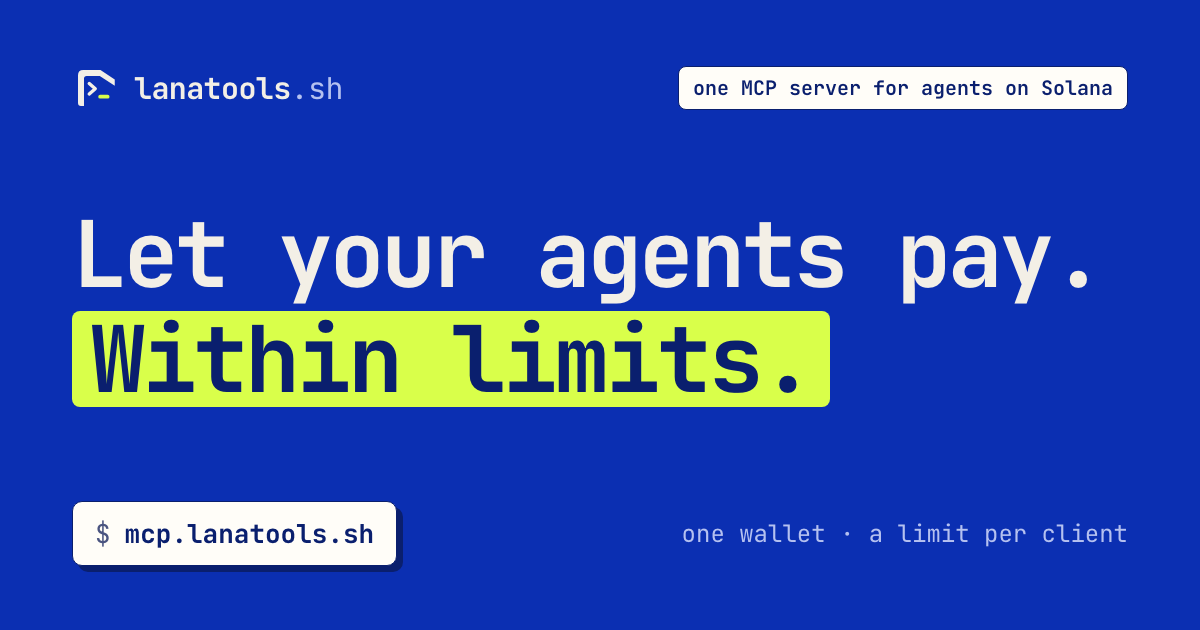
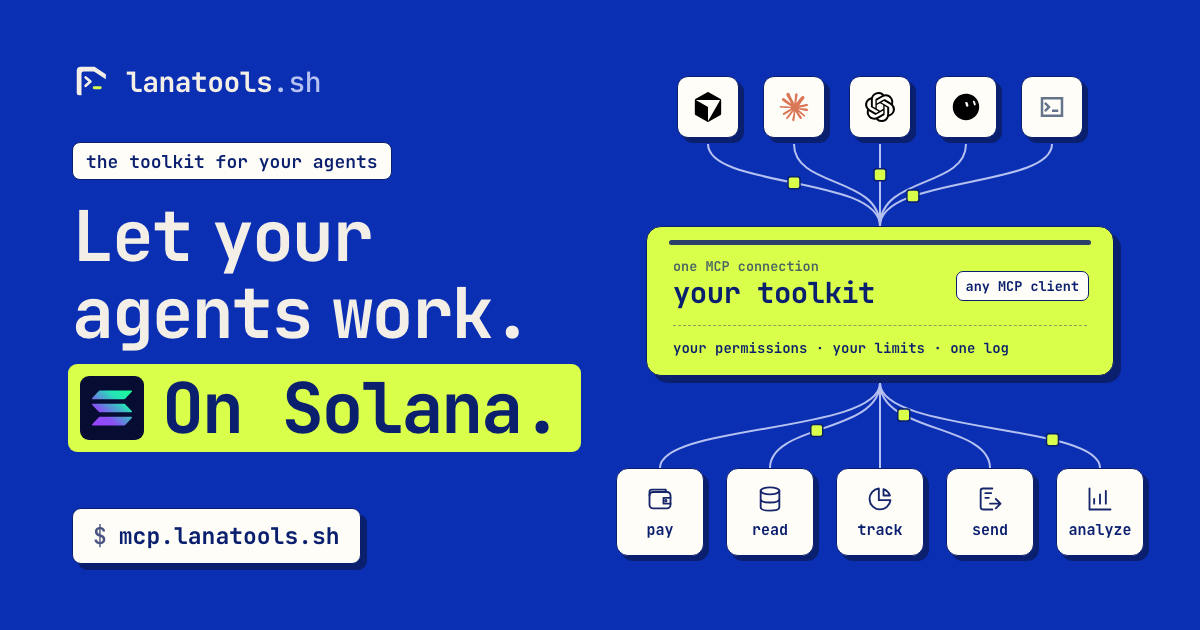
Match the page title, description, and preview image to the hero

diff --git a/apps/web/index.html b/apps/web/index.html
@@ -3,10 +3,10 @@
   <head>
     <meta charset="UTF-8" />
     <meta name="viewport" content="width=device-width, initial-scale=1.0" />
-    <title>LanaTools — Let your agents pay. Within limits.</title>
+    <title>LanaTools — Let your agents work. On Solana.</title>
     <meta
       name="description"
-      content="Give your agents one wallet you own. They pay for the APIs and data they need, each within the spending limit you set, and no keys sit in their configs."
+      content="One connection for your agents to access onchain data, pay for services, and execute transactions on Solana. You decide what each agent can do."
     />
     <meta name="theme-color" content="#0b2fb2" />
     <link rel="icon" type="image/svg+xml" href="/favicon.svg" />
@@ -17,33 +17,33 @@
     <meta property="og:url" content="https://lanatools.sh/" />
     <meta
       property="og:title"
-      content="LanaTools — Let your agents pay. Within limits."
+      content="LanaTools — Let your agents work. On Solana."
     />
     <meta
       property="og:description"
-      content="Give your agents one wallet you own. They pay for the APIs and data they need, each within the spending limit you set, and no keys sit in their configs."
+      content="One connection for your agents to access onchain data, pay for services, and execute transactions on Solana. You decide what each agent can do."
     />
     <meta property="og:image" content="https://lanatools.sh/og.png" />
     <meta property="og:image:width" content="1200" />
     <meta property="og:image:height" content="630" />
     <meta
       property="og:image:alt"
-      content="lanatools.sh — Let your agents pay. Within limits. mcp.lanatools.sh"
+      content="lanatools.sh — Let your agents work. On Solana. mcp.lanatools.sh"
     />
 
     <meta name="twitter:card" content="summary_large_image" />
     <meta
       name="twitter:title"
-      content="LanaTools — Let your agents pay. Within limits."
+      content="LanaTools — Let your agents work. On Solana."
     />
     <meta
       name="twitter:description"
-      content="Give your agents one wallet you own. They pay for the APIs and data they need, each within the spending limit you set, and no keys sit in their configs."
+      content="One connection for your agents to access onchain data, pay for services, and execute transactions on Solana. You decide what each agent can do."
     />
     <meta name="twitter:image" content="https://lanatools.sh/og.png" />
     <meta
       name="twitter:image:alt"
-      content="lanatools.sh — Let your agents pay. Within limits. mcp.lanatools.sh"
+      content="lanatools.sh — Let your agents work. On Solana. mcp.lanatools.sh"
     />
     <link rel="preconnect" href="https://fonts.googleapis.com" />
     <link rel="preconnect" href="https://fonts.gstatic.com" crossorigin />
@@ -54,9 +54,9 @@
   </head>
   <body>
     <!--
-      THESIS: one line. Every agent converges into a single URL, passes your wallet's gate, and fans out to providers. The page is a poster around that diagram; it refuses product screenshots and card grids.
+      THESIS: one line. Every agent converges into a single URL, passes your toolkit's checks, and fans out to the tools. The page is a poster around that diagram; it refuses product screenshots and card grids.
       OWN-WORLD: drenched Klein blue with paper counter-sections; boxes with 1.5px ink borders and hard offset shadows; JetBrains Mono for everything; lime for money in motion and the primary action, coral for a denied call.
-      STORY: a Solana power user sees where their agents' money goes and what stops it, then pastes one URL.
+      STORY: a Solana power user sees what their agents can do through one connection and what stops a call, then pastes one URL.
       FIRST VIEWPORT: headline at poster scale, one paragraph, one action; the animated flow diagram fills the width below.
     -->
     <div id="app"></div>
